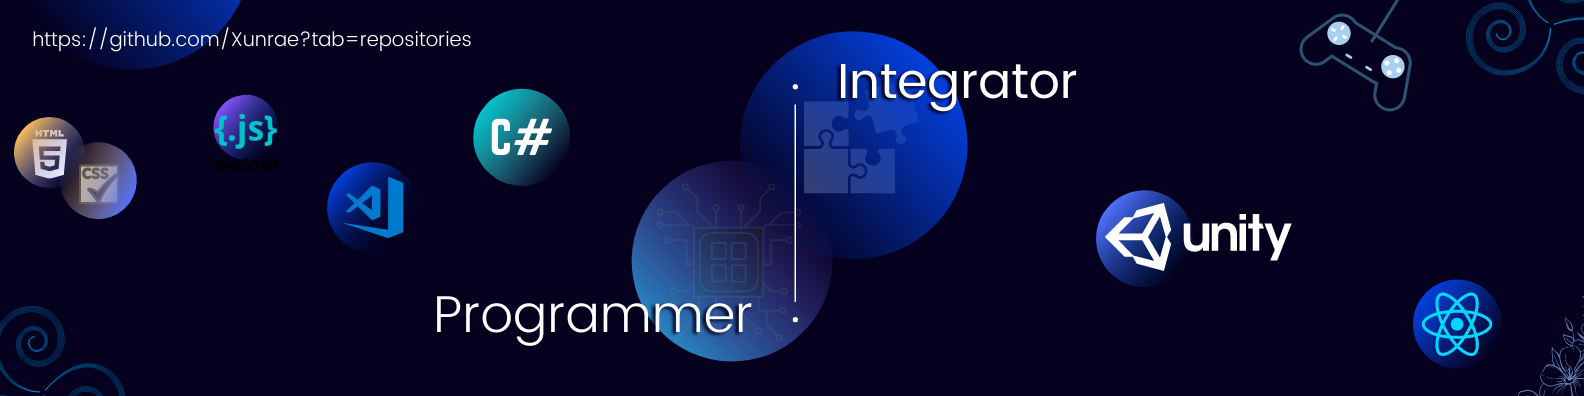
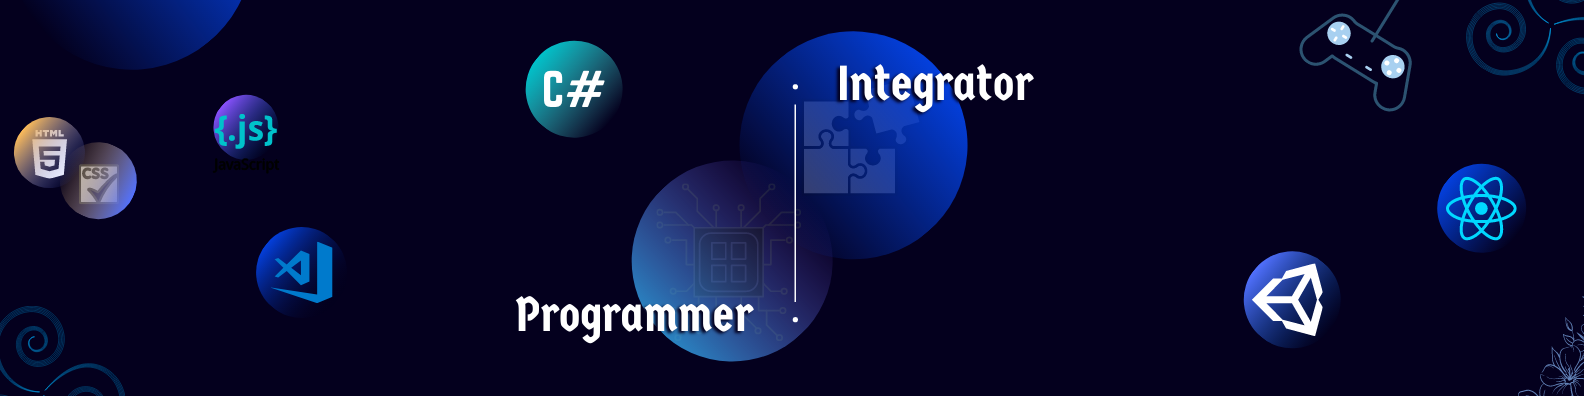
portfolio pas mal fini

diff --git a/src/jsx/Lightbox.jsx b/src/jsx/Lightbox.jsx
@@ -4,8 +4,8 @@ export default function Lightbox({text, lang}){
 
     return(
         <div id="Lightbox" className="LightboxInactive" data-gittext="" data-linktext="" data-linkbuild="">
-            <button onClick={changeClass}>X</button>
             <div className="imageComposant">
+                <button onClick={changeClass}>X</button>
                 <img id="lightboxImg" src="img/proj0001.webp" alt="afasf"/>
                 <h3 id="lightboxNomProjet">A</h3>
             </div>
@@ -21,11 +21,12 @@ export default function Lightbox({text, lang}){
 }
 
 function changeClass(){
-    if(document.getElementById('Lightbox').classList.contains('LightboxActive')){
-        document.getElementById('Lightbox').classList.remove('LightboxActive');
-        document.getElementById('Lightbox').classList.add('LightboxInactive');
-        document.getElementById('lightboxGit').innerHTML = document.getElementById('Lightbox').dataset.gittext;
-        document.getElementById('lightboxUrl').innerHTML = document.getElementById('Lightbox').dataset.linktext;
-        document.getElementById('lightboxBuild').innerHTML = document.getElementById('Lightbox').dataset.buildtext;
+    const lightbox = document.getElementById('Lightbox');
+    if(lightbox.classList.contains('LightboxActive')){
+        lightbox.classList.remove('LightboxActive');
+        lightbox.classList.add('LightboxInactive');
+        document.getElementById('lightboxGit').innerHTML = lightbox.dataset.gittext;
+        document.getElementById('lightboxUrl').innerHTML = lightbox.dataset.linktext;
+        document.getElementById('lightboxBuild').innerHTML = lightbox.dataset.buildtext;
     }
 }

diff --git a/src/sass/Lightbox.scss b/src/sass/Lightbox.scss
@@ -13,9 +13,9 @@
     overflow-y:scroll;
 
     button{
-        position: absolute;
-        top: 20%;
-        right:20%;
+        position: relative;
+        top: 3%;
+        right:-99%;
         height: 30px;
         width: 30px;
         border-radius: 15px;
@@ -35,9 +35,9 @@
     }
     .imageComposant{
         height: fit-content;
-        width: fit-content;
+        width: 50vw;
         margin: 0 auto;
-        padding-top: 200px;
+        padding-top: 100px;
         border-radius: 5px;
 
         img{
@@ -58,7 +58,7 @@
     }
 
     .descriptLightbox{
-        width: 45%;
+        width: 40%;
         background-color: black;
         padding:2%;
         border-radius: 5px;
@@ -99,15 +99,16 @@
 
 @media screen and (max-width: 1430px){
     #Lightbox{
-
         button{
-            top: 18%;
-            right: 10%;
+            top:4%;
+            right:-98%;
         }
 
         .imageComposant{
-            #lightboxImg{ 
-                padding-top: 0px;
+            width: 60vw;
+            padding-top:300px;
+
+            #lightboxImg{
                 height: 50vh;
                 width: 60vw;
             }
@@ -117,16 +118,17 @@
 
 @media screen and (max-width: 700px){
     #Lightbox{
-
         button{
-            top: 16%;
-            right: 5%;
+            top:5%;
+            right:-97%;
         }
 
         .imageComposant{
+            width: 70vw;
+            padding-top:350px;
+
             #lightboxImg{
-                padding-top:200px;
-                height: 60vh;
+                height: 40vh;
                 width: 70vw;
             }
         }

diff --git a/src/sass/Entete.scss b/src/sass/Entete.scss
@@ -12,11 +12,11 @@
     -webkit-box-shadow: 0px 0px 20px 10px #000000; 
     box-shadow: 0px 0px 20px 10px #000000;
 
-    p{transition: all 0.5s;}
+    p{transition: all 1s;}
 
     li:hover p{
-        transform: scale(1.3);
-        color: #00a37d;
+        color: #000;
+        text-shadow: 0 0 5px #FFF, 0 0 10px #FFF, 0 0 15px #FFF, 0 0 20px #49ff18, 0 0 30px #49FF18, 0 0 40px #49FF18, 0 0 55px #49FF18, 0 0 75px #49ff18;
     }
 
     .navPrincipale{
@@ -44,6 +44,7 @@
         display:flex;
         right: 30px;
         font-size: 0.9em;
+        z-index: 15;
 
         li{
             list-style: none;
@@ -55,6 +56,8 @@
                 font-family: 'Akaya Telivigala', cursive;
                 font-size: 1em;
                 cursor:pointer;
+                
+                &:focus{outline:0;}
             }
         }
 

diff --git a/src/sass/index.scss b/src/sass/index.scss
@@ -4,12 +4,13 @@
 }
 
 @import url('https://fonts.googleapis.com/css2?family=Akaya+Telivigala&family=Texturina&display=swap');
+@import url('https://fonts.googleapis.com/css2?family=Rosarivo&display=swap');
 
 Body{
     background: rgb(12,12,83);
     background: linear-gradient(0deg, rgb(16, 48, 66) 0%, rgba(12,12,83,1) 100%);
     color:white;
-    font-family: 'Akaya Telivigala', cursive;
+    font-family: 'Rosarivo', serif;
 
     // css de la barre de défilement
     /* largeur de la barre entière */

diff --git a/src/sass/Footer.scss b/src/sass/Footer.scss
@@ -15,12 +15,17 @@
     span{
         margin:0;
         padding:0;
-        height:24px;
+        height:21px;
+        width:fit-content;
         cursor: pointer;
         transition: all 0.5s;
 
+        &:first-child{border-radius:50%;}
+
         &:hover{
             transform: scale(1.3);
+            -webkit-box-shadow: 0px 0px 15x 3px #000000; 
+            box-shadow: 0px 0px 15px 3px #000000;
         }
     }
 }

diff --git a/src/jsx/Projet.jsx b/src/jsx/Projet.jsx
@@ -40,6 +40,7 @@ export default function Projet({id, nomFr, nomEn, contribFr, contribEn, descFr, 
         description.innerHTML = descript;
         urlGit.href = git;
         urlProjet.href = url;
+        urlBuild.href = build;
 
         lightbox.dataset.gittext = urlGit.innerHTML;
         lightbox.dataset.linktext = urlProjet.innerHTML;

diff --git a/src/sass/Projet.scss b/src/sass/Projet.scss
@@ -41,7 +41,7 @@
             background-color: rgba(0,0,0,0.8);
             font-size: 1.3em;
             color:white;
-            font-family: 'Akaya Telivigala', cursive;
+            font-family: 'Rosarivo', serif;
         }
 
         &:hover .contribution{
